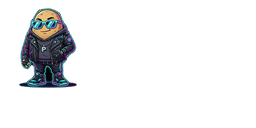
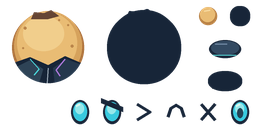
Art prototype: rounded potato with separate animated hands feet and eyes

diff --git a/scripts/build_potato_animated.py b/scripts/build_potato_animated.py
@@ -1,0 +1,110 @@
+#!/usr/bin/env python3
+"""Original procedural prototype: separate classic 0.6 body/feet/hand/eye cells.
+No engine/physics changes. Draw at 4x resolution for clean transparent edges.
+Only cool_guy_1 is migrated; approved female sources remain untouched.
+"""
+from pathlib import Path
+from PIL import Image, ImageDraw, ImageFilter
+
+ROOT = Path(__file__).resolve().parent.parent
+SCALE = 4
+INK = '#172538'
+
+
+def canvas(size):
+    return Image.new('RGBA', (size[0]*SCALE, size[1]*SCALE))
+
+
+def ellipse(draw, box, fill):
+    draw.ellipse(tuple(int(v*SCALE) for v in box), fill=fill)
+
+
+def polygon(draw, points, fill):
+    draw.polygon([(int(x*SCALE), int(y*SCALE)) for x, y in points], fill=fill)
+
+
+def line(draw, points, fill, width=1):
+    draw.line([(int(x*SCALE), int(y*SCALE)) for x, y in points], fill=fill, width=int(width*SCALE), joint='curve')
+
+
+def finish(image):
+    return image.resize((image.width//SCALE, image.height//SCALE), Image.Resampling.LANCZOS)
+
+
+def outline(image):
+    # Dark edge, not the old white sticker silhouette. Entire mask stays within cell.
+    result = Image.new('RGBA', image.size, INK)
+    result.putalpha(image.getchannel('A').filter(ImageFilter.MaxFilter(9)))
+    return result
+
+
+def build_sheet():
+    body = canvas((96, 96))
+    d = ImageDraw.Draw(body)
+    ellipse(d, (12, 12, 84, 83), '#ac713b')
+    ellipse(d, (14, 11, 82, 81), '#d6a25c')
+    ellipse(d, (17, 12, 77, 74), '#e9bc74')
+    ellipse(d, (23, 16, 64, 51), '#f1ce8c')
+    # Potato dimples, kept outside the animated eye area.
+    for x, y, r in [(25, 28, 1.5), (68, 25, 1), (72, 46, 1.5), (23, 48, 1), (59, 20, 1)]:
+        ellipse(d, (x-r, y-r, x+r, y+r), '#bb864b')
+    # Short asymmetric tuft; no floating spikes beyond the collision silhouette.
+    polygon(d, [(31, 19), (34, 12), (44, 13), (51, 10), (59, 16), (48, 19)], '#654534')
+    # Jacket occupies lower body; no shoulders, arms, trousers or painted feet.
+    jacket = canvas((96, 96)); j = ImageDraw.Draw(jacket)
+    polygon(j, [(10, 64), (30, 57), (48, 65), (65, 56), (86, 65), (86, 90), (10, 90)], INK)
+    polygon(j, [(16, 67), (30, 60), (43, 69), (38, 86), (14, 86)], '#2e4356')
+    polygon(j, [(53, 68), (66, 59), (82, 65), (84, 85), (55, 86)], '#25384d')
+    line(j, [(30, 59), (39, 69), (34, 75)], '#49d5d8', 1.3)
+    line(j, [(65, 59), (56, 70), (60, 76)], '#ac77da', 1.3)
+    line(j, [(48, 68), (47, 83)], '#9eacb9', 1)
+    # Clip the jacket to the original rounded body alpha, not a human silhouette.
+    from PIL import ImageChops
+    jacket.putalpha(ImageChops.multiply(jacket.getchannel('A'), body.getchannel('A')))
+    body.alpha_composite(jacket)
+
+    foot = canvas((64, 32)); d = ImageDraw.Draw(foot)
+    ellipse(d, (17, 8, 49, 26), INK)
+    ellipse(d, (19, 9, 47, 23), '#334a62')
+    line(d, [(21, 23), (44, 23)], '#51c9cb', 1.2)
+    line(d, [(23, 12), (35, 12)], '#6e86a0', 1.4)
+
+    hand = canvas((32, 32)); d = ImageDraw.Draw(hand)
+    ellipse(d, (7, 7, 25, 25), '#b98245')
+    ellipse(d, (8, 7, 23, 22), '#e9bc74')
+    line(d, [(12, 11), (18, 10)], '#f7d99f', 1.5)
+
+    sheet = Image.new('RGBA', (256, 128))
+    for art, pos, border in [(body, (0, 0), (96, 0)), (hand, (192, 0), (224, 0)), (foot, (192, 32), (192, 64))]:
+        sheet.paste(finish(art), pos)
+        sheet.paste(finish(outline(art)), border)
+    # One lens/eye per cell: the renderer mirrors it for the second eye and
+    # applies gaze/blink/emote transforms. No eyes are baked into the body.
+    for index in range(6):
+        eye = canvas((32, 32)); d = ImageDraw.Draw(eye)
+        if index in (0, 1, 5):
+            ellipse(d, (7, 4, 25, 28), INK)
+            ellipse(d, (9, 6, 23, 25), '#39c9de')
+            ellipse(d, (11, 7, 20, 18), '#96e7ea')
+            line(d, [(12, 10), (16, 8)], '#d6f6ed', 2)
+            if index == 1:
+                polygon(d, [(5, 2), (27, 11), (27, 16), (5, 7)], INK)
+            if index == 5:
+                ellipse(d, (13, 12, 19, 22), '#244457')
+        elif index == 2:
+            line(d, [(9, 8), (22, 16), (9, 24)], INK, 3)
+        elif index == 3:
+            line(d, [(8, 21), (11, 12), (16, 9), (21, 12), (24, 21)], INK, 3)
+        else:
+            line(d, [(9, 8), (23, 24)], INK, 3)
+            line(d, [(23, 8), (9, 24)], INK, 3)
+        sheet.paste(finish(eye), (64 + index*32, 96))
+    return sheet
+
+
+def main():
+    build_sheet().save(ROOT / 'data/skins/potato_cool_guy_1.png')
+
+
+if __name__ == '__main__':
+    main()

diff --git a/scripts/build_potato_skins.py b/scripts/build_potato_skins.py
@@ -1,5 +1,8 @@
 #!/usr/bin/env python3
-"""Potato v2 mascots: matte the black-backdrop generations, store 512x512
+"""cool_guy_1 uses the articulated prototype in build_potato_animated.py.
+All other skins retain this legacy layout pending user playtest approval.
+
+Potato v2 mascots: matte the black-backdrop generations, store 512x512
 sources + the 1280x512 collage, and bake DDNet-compatible 256x128 skin sheets.
 
 Skin sheet layout (tee grid 8x4 -> 32px cells, see datasrc/content.py):
@@ -18,6 +21,7 @@ import numpy as np
 from PIL import Image
 
 sys.path.insert(0, str(Path(__file__).resolve().parent))
+from build_potato_animated import build_sheet
 from build_potato_weapon_sheet import contain, prepare_source  # noqa: E402
 
 ROOT = Path(__file__).resolve().parent.parent
@@ -53,6 +57,10 @@ def main() -> int:
     print(f"[collage] {SRC / 'potato_v2_all_10.png'} 1280x512")
 
     for name in POTATOES:
+        if name == "cool_guy_1":
+            build_sheet().save(SKINS / "potato_cool_guy_1.png")
+            print("[skin] potato_cool_guy_1.png: articulated prototype, separate limbs/eyes")
+            continue
         art = sources[name].crop(sources[name].getchannel("A").getbbox())
         body = contain(art, (BODY_PX, BODY_PX))
         sheet = Image.new("RGBA", (256, 128), (0, 0, 0, 0))

diff --git a/scripts/test_potato_assets.py b/scripts/test_potato_assets.py
@@ -25,6 +25,18 @@ class Assets(unittest.TestCase):
             self.assertLessEqual(box[2] - box[0], 80)
             self.assertLessEqual(box[3] - box[1], 80)
             self.assertTrue(a[:96, 96:192].any())
+            if name == 'cool_guy_1':
+                cells = [(192, 0, 224, 32), (224, 0, 256, 32), (192, 32, 256, 64), (192, 64, 256, 96)]
+                cells += [(64+i*32, 96, 96+i*32, 128) for i in range(6)]
+                for cell in cells:
+                    self.assertIsNotNone(im.crop(cell).getchannel('A').getbbox())
+                eyes = [im.crop(cell).tobytes() for cell in cells[4:]]
+                self.assertEqual(len(set(eyes)), 6)
+                border = np.array(im.crop((96, 0, 192, 96)))
+                visible = border[..., 3] > 128
+                self.assertTrue((border[visible, :3] < 100).all())
+                self.assertFalse(a[96:, :64].any())
+                continue
             self.assertFalse(a[96:].any())
             self.assertFalse(a[:96, 192:].any())
 

diff --git a/scripts/gen_asset_manifest.py b/scripts/gen_asset_manifest.py
@@ -192,6 +192,13 @@ def main() -> int:
 
     for path in watched:
         rel = path.relative_to(ROOT).as_posix()
+        if rel == "data/skins/potato_cool_guy_1.png":
+            add(rel, path, "Neon Relay project (AI-assisted procedural artwork)",
+                "AI-assisted artwork; human copyright eligibility not assessed",
+                "Zlib", OWN_URL,
+                "Original procedural articulated prototype: scripts/build_potato_animated.py; not copied from reference art",
+                "ship")
+            continue
         if rel.startswith(("assets-src/potato/", "assets-src/weapons/", "data/skins/potato_")):
             add(rel, path, "Neon Relay project (AI-assisted artwork)",
                 "AI-generated artwork; human copyright eligibility not assessed",

diff --git a/docs/BL16_PROGRESS.md b/docs/BL16_PROGRESS.md
@@ -371,3 +371,28 @@ same checks so this gap does not recur silently.
   not in the local sandbox, where Rust/curl development dependencies are absent.
 - Outstanding: native client build and visual playtest, active relay defenses,
   packet/UI integration and full economy/admission flow. Payments remain off.
+
+### Art prototype — articulated cool_guy_1 after macOS visual feedback
+
+The user successfully built/ran the macOS client and connected to a local
+server, then reported the paper-cutout body, white outline and unmoving painted
+limbs. This is direct visual feedback, not an automated macOS build gate.
+
+Only `data/skins/potato_cool_guy_1.png` is replaced by a new original procedural
+prototype (`scripts/build_potato_animated.py`, invoked by the existing skin
+builder). It uses a rounded potato/jacket body with no painted limbs or eyes,
+separate hand/foot and dark-outline cells, and six distinct eye cells. Native
+classic 0.6 rendering supplies gait, weapon/ hook hand positioning, gaze and
+blink transforms. No physics, rendering code, payment or ownership flags change.
+
+The other nine sheets, all female face_alt references, weapons and v2 source
+collage are unchanged. The old v2 collage remains a historical reference, not a
+preview of this prototype. The new design is deliberately simplified original
+procedural artwork, not a pixel-identical import or cutout of the old source.
+
+Local full gates passed: assets 3/3 (including deterministic regeneration and
+nonempty separate sprite cells/distinct eye states/dark outlines), backend
+97/97, onchain TS 32/32, branding/licenses/syntax/signer. Asset manifest updated.
+User approval and actual walking/jumping/hook/weapon visual testing on macOS
+remain required before migrating any more characters. Catalog default remains
+unchanged; explicitly select `player_skin potato_cool_guy_1` for this playtest.
